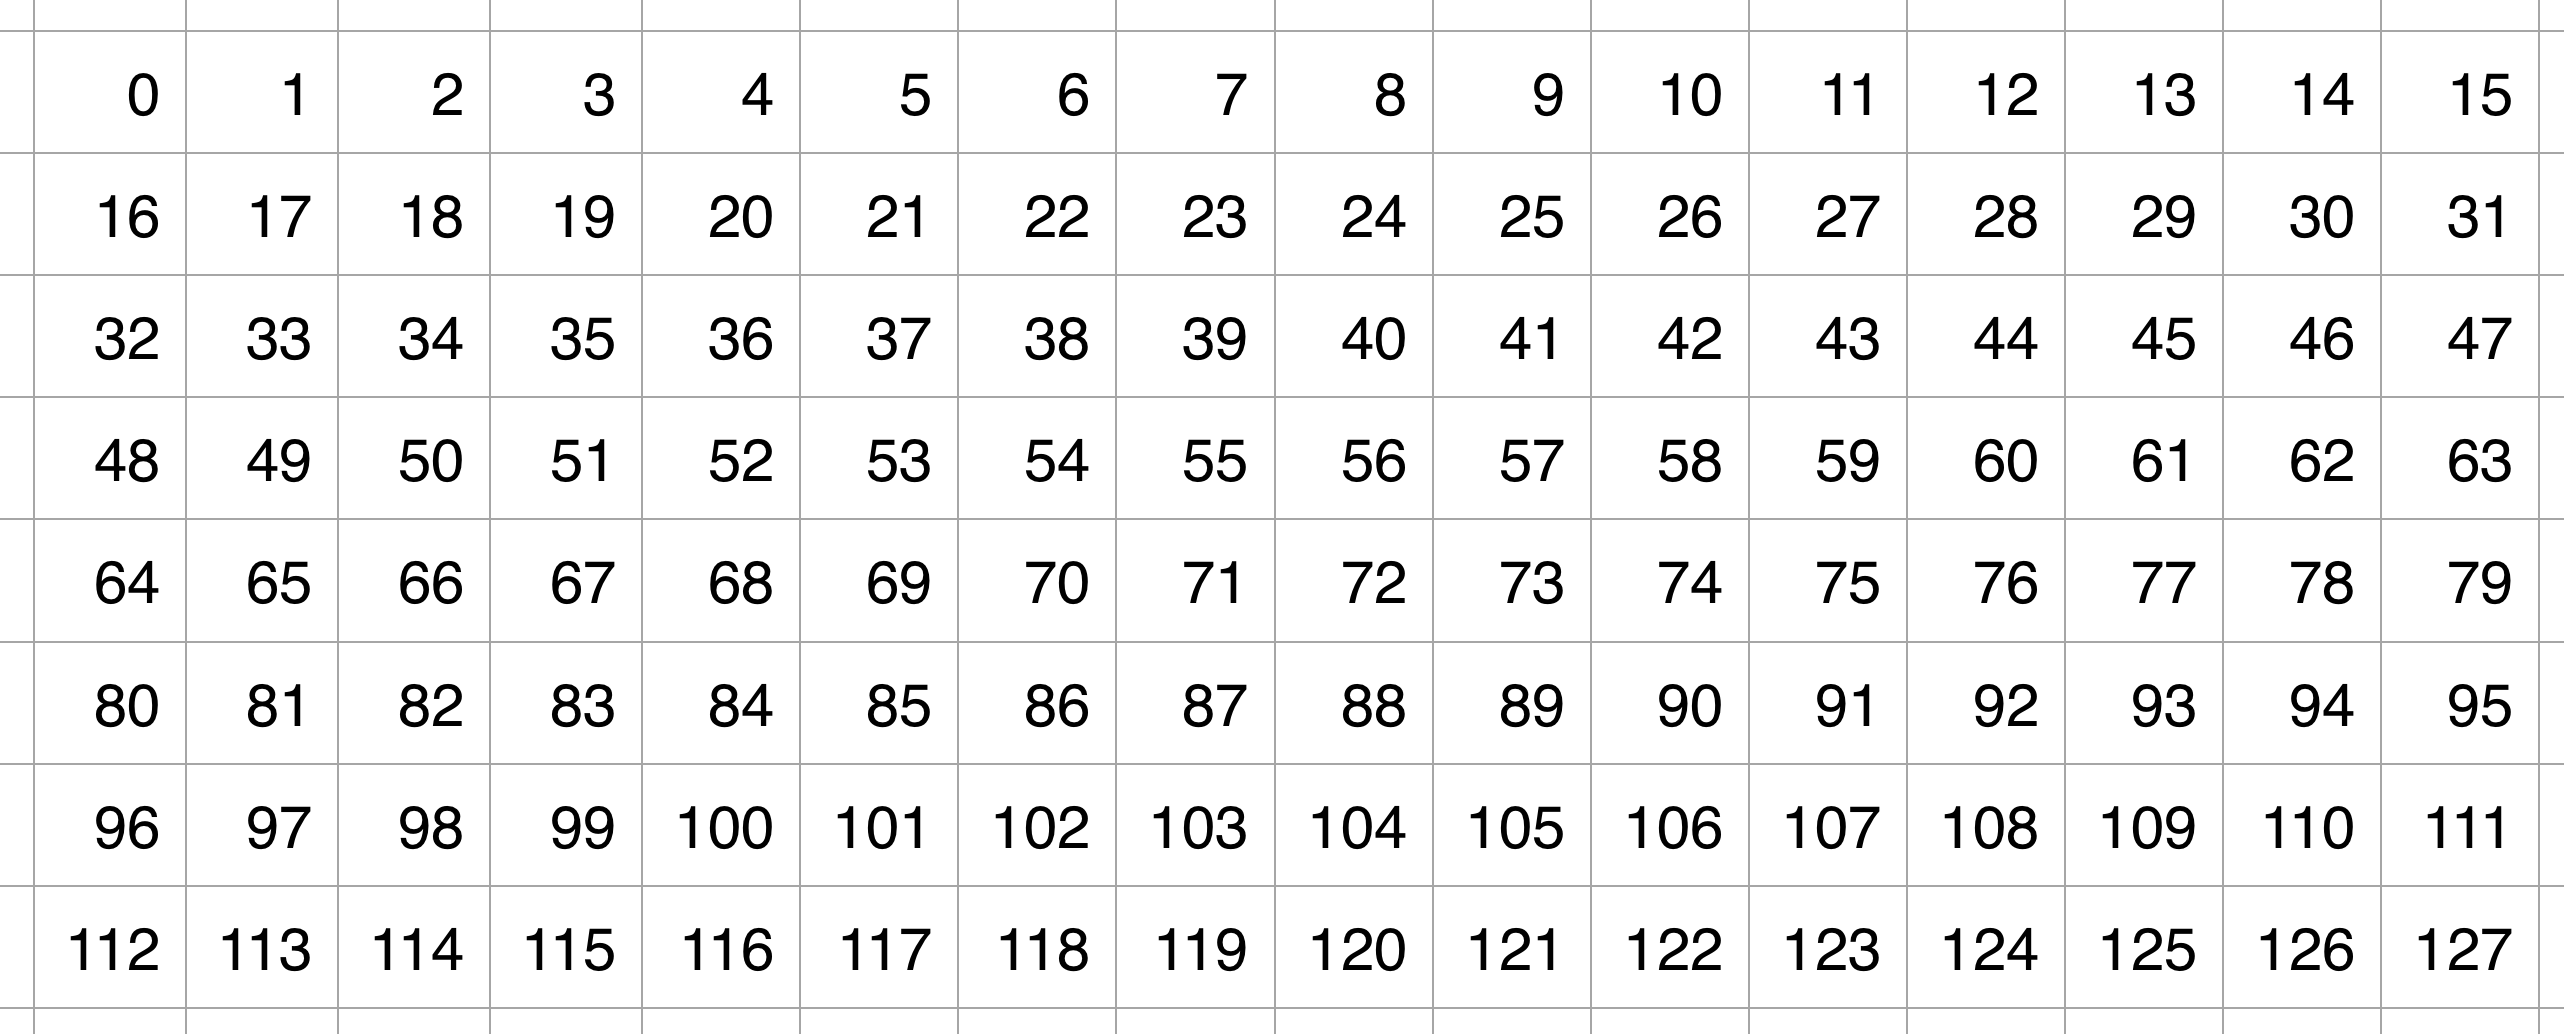
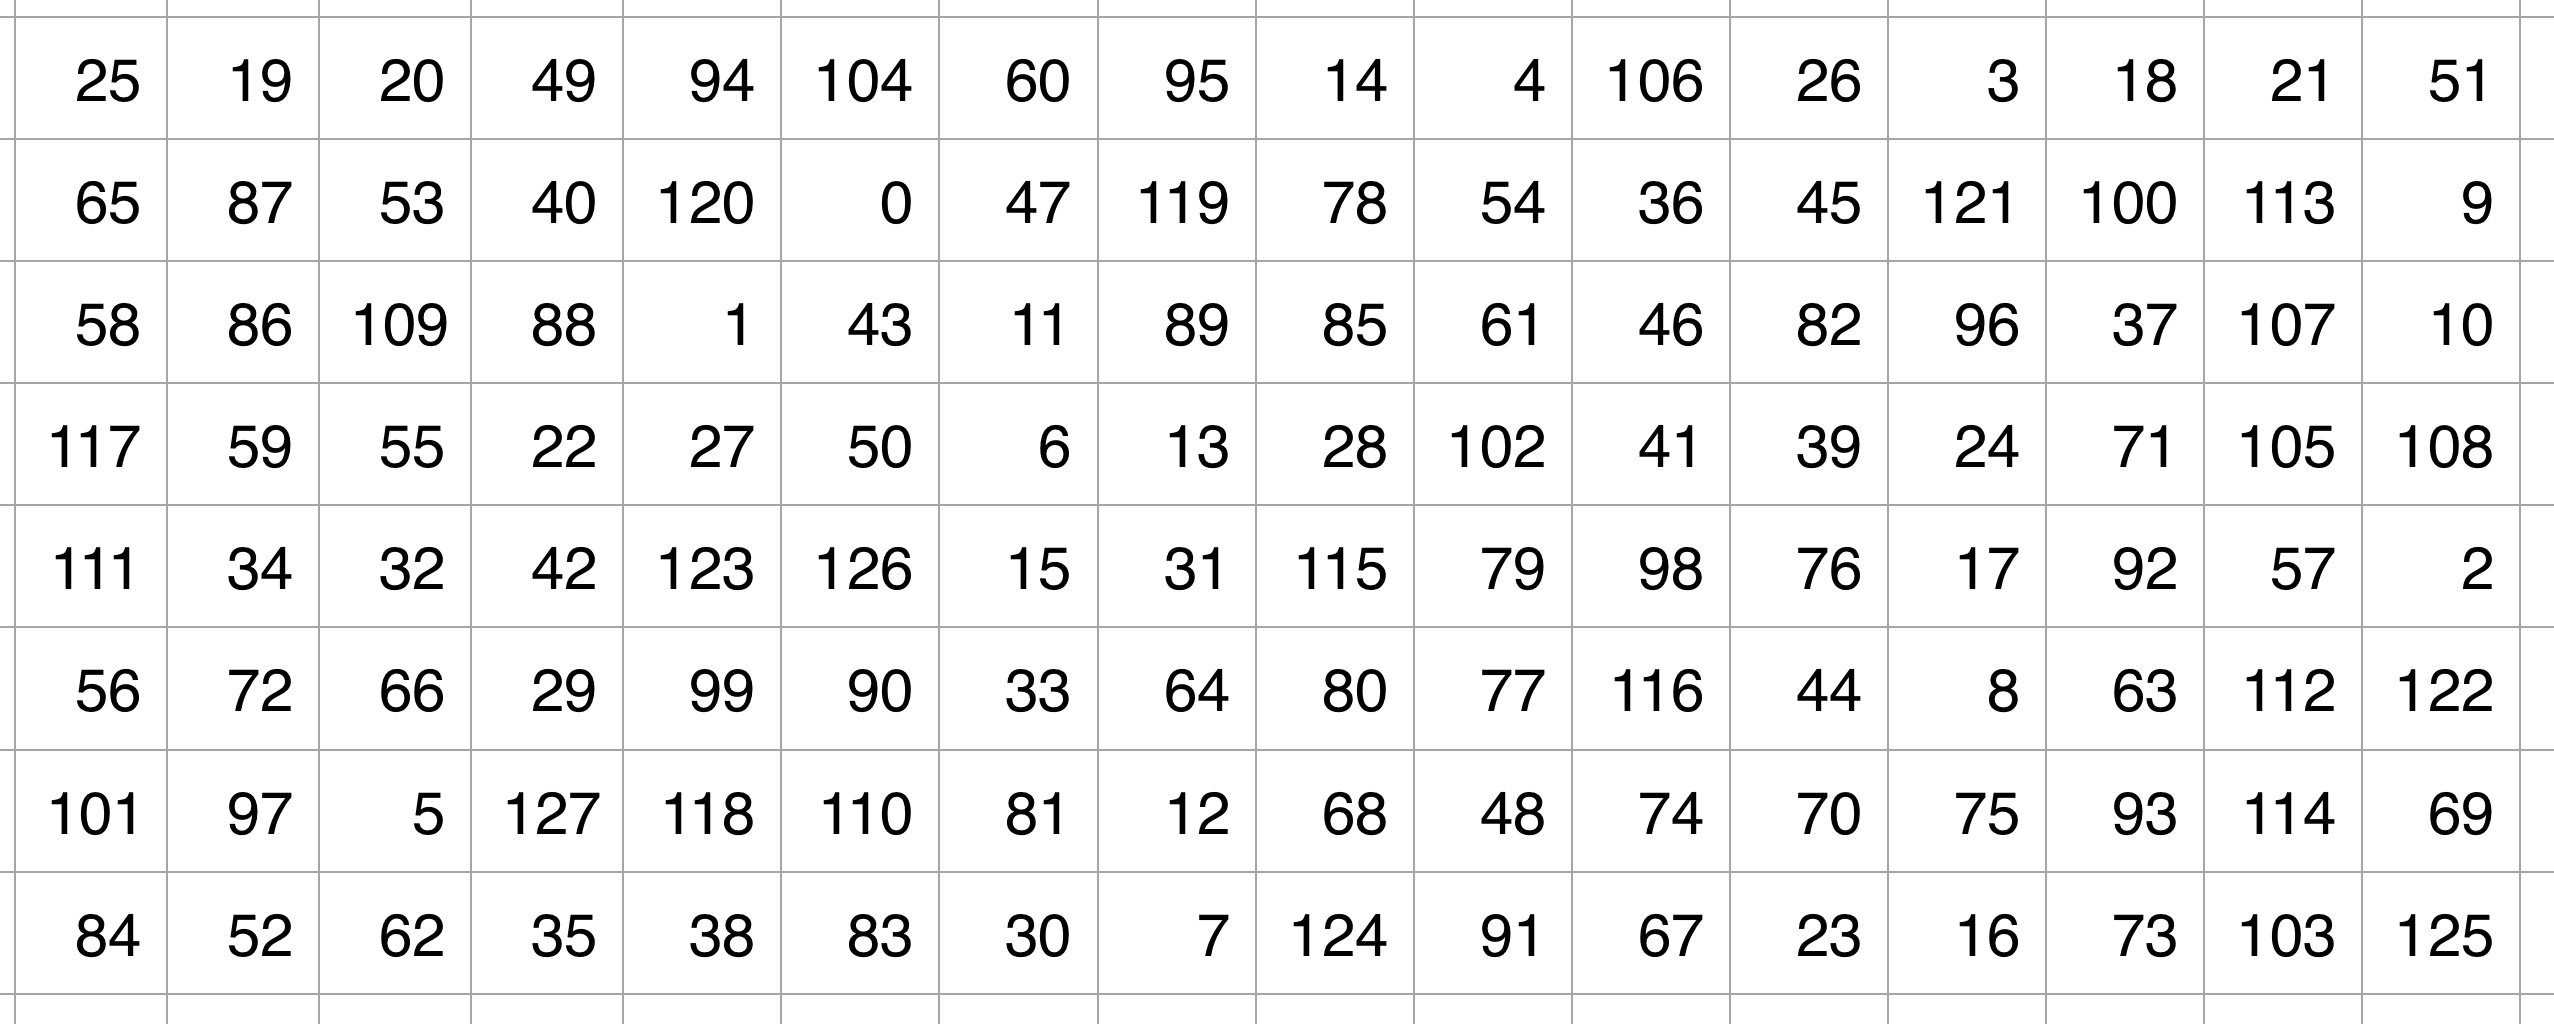
change graph and saveData

diff --git a/scripts/angular/services.js b/scripts/angular/services.js
@@ -67,7 +67,8 @@ sv.getSolutions = function(){
       C: [4,1,3,2],
       D: [2,3,1,4]
     };
-    var solutionArray = [0,1,2,3,4,5,6,7,8,9,10,11,12,13,14,15,16,17,18,19,20,21,22,23,24,25,26,27,28,29,30,31,32,33,34,35,36,37,38,39,40,41,42,43,44,45,46,47,48,49,50,51,52,53,54,55,56,57,58,59,60,61,62,63,64,65,66,67,68,69,70,71,72,73,74,75,76,77,78,79,80,81,82,83,84,85,86,87,88,89,90,91,92,93,94,95,96,97,98,99,100,101,102,103,104,105,106,107,108,109,110,111,112,113,114,115,116,117,118,119,120,121,122,123,124,125,126,127];
+    // var solutionArray = [0,1,2,3,4,5,6,7,8,9,10,11,12,13,14,15,16,17,18,19,20,21,22,23,24,25,26,27,28,29,30,31,32,33,34,35,36,37,38,39,40,41,42,43,44,45,46,47,48,49,50,51,52,53,54,55,56,57,58,59,60,61,62,63,64,65,66,67,68,69,70,71,72,73,74,75,76,77,78,79,80,81,82,83,84,85,86,87,88,89,90,91,92,93,94,95,96,97,98,99,100,101,102,103,104,105,106,107,108,109,110,111,112,113,114,115,116,117,118,119,120,121,122,123,124,125,126,127];
+    var solutionArray = [25, 19, 20, 49, 94, 104, 60, 95, 14, 4, 106, 26, 3, 18, 21, 51, 65, 87, 53, 40, 120, 0, 47, 119, 78, 54, 36, 45, 121, 100, 113, 9, 58, 86, 109, 88, 1, 43, 11, 89, 85, 61, 46, 82, 96, 37, 107, 10, 117, 59, 55, 22, 27, 50, 6, 13, 28, 102, 41, 39, 24, 71, 105, 108, 111, 34, 32, 42, 123, 126, 15, 31, 115, 79, 98, 76, 17, 92, 57, 2, 56, 72, 66, 29, 99, 90, 33, 64, 80, 77, 116, 44, 8, 63, 112, 122, 101, 97, 5, 127, 118, 110, 81, 12, 68, 48, 74, 70, 75, 93, 114, 69, 84, 52, 62, 35, 38, 83, 30, 7, 124, 91, 67, 23, 16, 73, 103, 125];
     sv.colorAnswers = {
       pink: -32,
       green: 32,
@@ -187,8 +188,26 @@ app.service('runnerService', ['$http','$location', function($http, $location){
         var bobbingRate = 0.04;
         var bobbingHeight = 0.2;
         var tideRate = 0.0005;
-        var ascentionSpeed = 0.1;
-        var puzzlesSolved = [false, false, false, false];
+        var ascentionSpeed = 0.01;
+        var puzzlesSolved = [];
+        $http.get(url + '/api/submitAnswer/' + id + '/1')
+        .then(function(data){
+          puzzlesSolved.push(data.data);
+          return $http.get(url + '/api/submitAnswer/' + id + '/2');
+        })
+        .then(function(data){
+          puzzlesSolved.push(data.data);
+          return $http.get(url + '/api/submitAnswer/' + id + '/3');
+        }).then(function(data){
+          puzzlesSolved.push(data.data);
+          return $http.get(url + '/api/submitAnswer/' + id + '/4');
+        }).then(function(data){
+          puzzlesSolved.push(data.data);
+        })
+        .catch(function(err){
+          console.log(err);
+        })
+
 
 
         init();
@@ -687,7 +706,7 @@ mazeParts.push(geometryOuterWallFinal);
 
 
           } else if(puzzleArray[i][j] === 5){
-            for(var k = 0; k < 3; k++){
+            for(var k = 0; k < 5; k++){
               var branch = new THREE.Mesh(wallGeometry, branchMaterial);
               branch.position.x = ((j + startJ) * -10);
               branch.position.z = (98 - (i + startI)) * 10;

diff --git a/templates/oracleView.html b/templates/oracleView.html
@@ -20,10 +20,10 @@
     <button class="btn btn-md finalBTN" ng-init="OC.finalButton=false" ng-click="OC.finalButton=!OC.finalButton; OC.step3=false; OC.step2=false; OC.step1=false;">Final Step</button>
     <div ng-show="OC.step1">
     <h2>Which of the four stone types is the Operative currently in?</h3>
-    <h3><img src="resources/textures/stone2.jpg" class="texture" /> Start on 63</h3>
-    <h3><img src="resources/textures/stone1.jpg" class="texture" /> Start on 51</h3>
-    <h3><img src="resources/textures/stone3.jpg" class="texture" /> Start on 59</h3>
-    <h3><img src="resources/textures/stone4.png" class="texture" /> Start on 55</h3>
+    <h3><img src="resources/textures/stone2.jpg" class="texture" /> Start on 108</h3>
+    <h3><img src="resources/textures/stone1.jpg" class="texture" /> Start on 22</h3>
+    <h3><img src="resources/textures/stone3.jpg" class="texture" /> Start on 39</h3>
+    <h3><img src="resources/textures/stone4.png" class="texture" /> Start on 13</h3>
     </div>
     <div ng-show="OC.step2">
       <h2>What color is the temple piece that you placed on your map?</h2>
